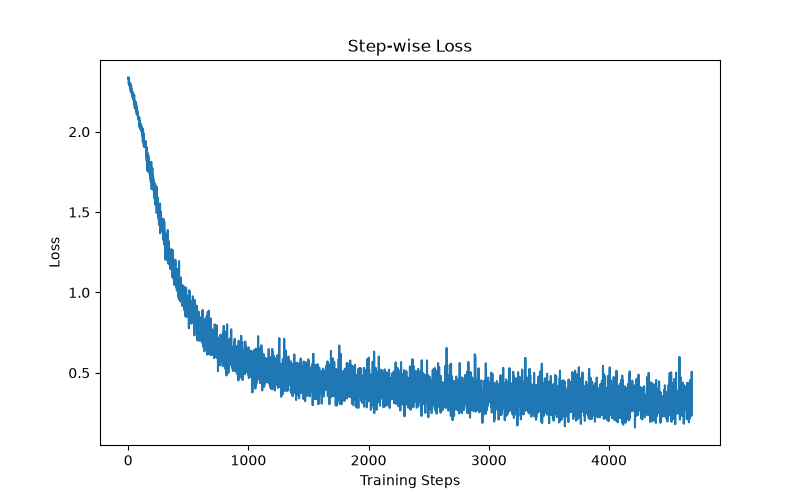
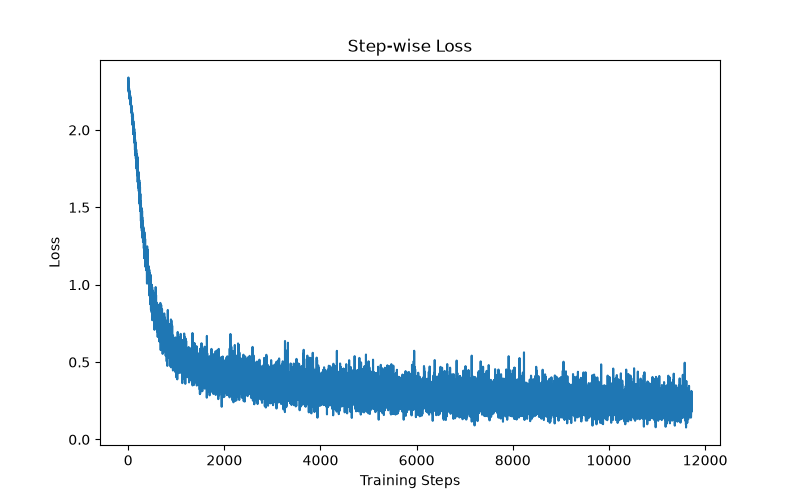
Tuned the hyperparameters and evaluated the model on 10000 test samples to achieve a 93.46% prediction accuracy

diff --git a/mnist/neural.py b/mnist/neural.py
@@ -20,7 +20,7 @@ mnist_testdataloader = DataLoader(dataset = mnist_test, batch_size = batch_size,
 
 # CREATE NEURAL NETWORK
 in_features = 784 
-hidden_states = 128
+hidden_states = 130
 output = 10 
 
 class NeuralNetwork(nn.Module):
@@ -46,7 +46,7 @@ learning_rate = 0.01
 loss_fn = nn.CrossEntropyLoss()
 optimizer = optim.SGD(model.parameters(), learning_rate)
 
-num_epochs = 10
+num_epochs = 25
 loss_values = []
 
 for epoch in range(num_epochs):
@@ -68,7 +68,6 @@ plt.xlabel("Training Steps")
 plt.ylabel("Loss")
 
 plt.savefig("loss.png")
- 
 
 test_instances = len(mnist_test)
 
@@ -77,7 +76,16 @@ test_instances = len(mnist_test)
 num_pred = []
 num_target = []
 correct = 0 
-total = 0 
+total = test_instances 
+
+with torch.no_grad():
+    for tensor, label in mnist_testdataloader:
+        output = model(tensor)
+        predicted_class_index = torch.argmax(output, dim = 1)
+        correct += (predicted_class_index == label).sum().item()
 
 
+model_accuracy = 100 * correct / total 
 
+print(f'The accuracy of the network on {test_instances} instances is {model_accuracy}%')
+        
